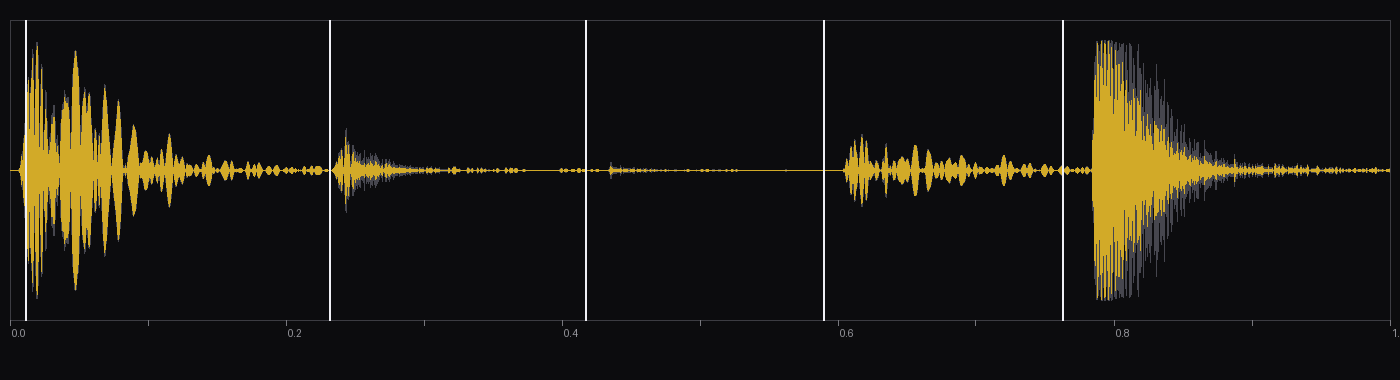
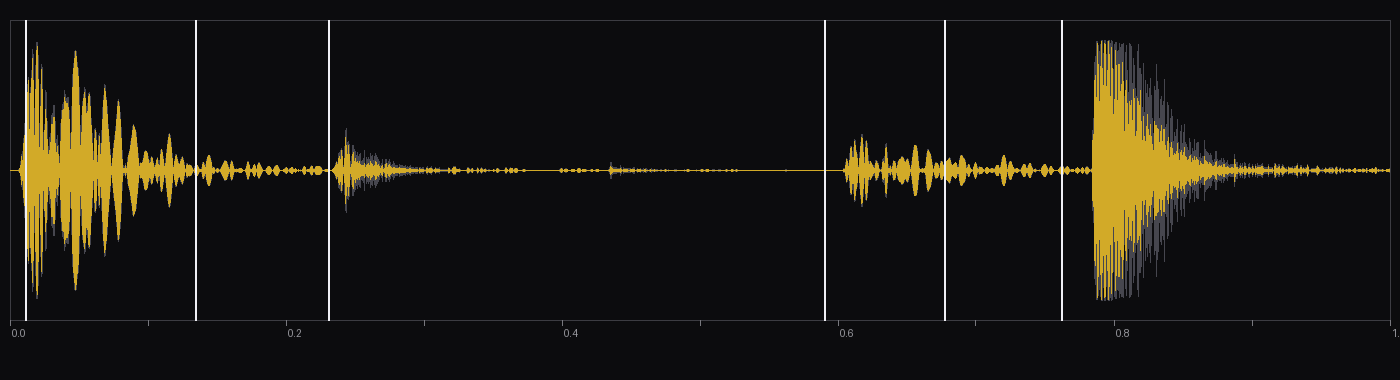
tools: cut on the attack step, not before it
The boundary was landing in the silence ahead of the burst. Two rules were
tried and measured against the take-off (the first 1 ms cell above three times
the local noise floor):

  first crossing of a level (25% of peak, or 2.5x noise)  median +2 ms, but
    it collapses when the window opens inside a decay;
  valley before the attack                               median +11.5 ms, far
    too early, because the valley can sit at the window edge.

The rule that holds is the steepest single step of the 1 ms envelope inside
+-12 ms of the novelty frame: median +1.5 ms from the take-off, 13 of 16
boundaries within 6 ms. The step is the attack, so the slice keeps the whole
transient and none of the silence before it.

Report images regenerated from this run.

diff --git a/tools/hpss/spectral_chop.py b/tools/hpss/spectral_chop.py
@@ -15,9 +15,10 @@ The whole algorithm is four steps:
   3. Peaks: a frame is an onset when its flux is the local maximum and exceeds
      `sensitivity` times the median flux of +-0.5 s around it. No absolute
      threshold, so it adapts to the material instead of to its loudest hit.
-  4. Position: the largest energy jump in a 1 ms envelope within +-30 ms of the
-     flux frame, minus a 2 ms pre-roll, so the boundary sits on the attack
-     instead of on the analysis frame (which is up to 11 ms late).
+  4. Position: inside the frame that carries the attack, the boundary goes on
+     the biggest single step up of the 1 ms envelope within +-12 ms. That step
+     is the attack itself, so the slice starts on the transient with neither
+     silence before it nor a clipped attack.
 
 Slices are what the firmware builds: slice i spans [pos[i], pos[i+1]) and the
 last runs to the end of the sample. At most 16 slices are made: the first 16
@@ -111,34 +112,27 @@ def pick_peaks(strength, rate, sensitivity, min_gap_ms=40.0):
 
 
 def snap_to_attack(x, rate, frame):
-    """Put the boundary at the steepest energy rise near the flux peak.
+    """Cut where the waveform jumps the most.
 
-    The ODF peak sits inside the first frame that contains the attack, so the
-    exact sample is found from a 1 ms envelope: the largest jump in a +-30 ms
-    window, minus a 2 ms pre-roll so the slice keeps the whole transient. A
-    plain "first sample above a threshold" rule was jumping back onto the
-    decaying tail of the previous hit.
+    The novelty peak tells which analysis frame carries the attack; inside a
+    +-12 ms window around it the 1 ms envelope is scanned and the boundary goes
+    on the biggest single step up. That step *is* the attack, so the slice
+    starts on the transient and keeps all of it - neither early (silence before
+    the hit) nor late (a clipped attack).
     """
     pos = frame * HOP
     a = max(0, pos - int(0.012 * rate))
     b = min(len(x), pos + int(0.012 * rate))
-    if b - a < 8:
-        return pos
     hop = max(1, int(0.001 * rate))
-    n = (b - a) // hop
-    if n < 4:
+    if b - a < 4 * hop:
         return pos
+    n = (b - a) // hop
     env = np.array([float(np.abs(x[a + i * hop:a + (i + 1) * hop]).max())
                     for i in range(n)], dtype=np.float32)
-    # rise over ~3 ms minus the preceding ~6 ms
-    k = max(1, int(0.003 * rate / hop))
-    m = max(1, int(0.006 * rate / hop))
-    best, best_i = -1.0, 0
-    for i in range(m, n):
-        rise = env[i:i + k].max() - env[max(0, i - m):i].min()
-        if rise > best:
-            best, best_i = rise, i
-    return max(0, a + best_i * hop - int(0.002 * rate))
+    if not float(env.max()) > 0:
+        return None
+    step = np.diff(env, prepend=env[:1])
+    return max(0, a + int(np.argmax(step)) * hop)
 
 
 def choose(frames, max_slices):
@@ -159,6 +153,8 @@ def onsets(x, rate, max_slices=16, sensitivity=2.5):
     positions = []
     for f in sorted(ranked):
         p = snap_to_attack(x, rate, f)
+        if p is None:
+            continue        # novelty peak without an attack of its own
         if positions and p - positions[-1] < int(0.040 * rate):
             continue        # snapping can pull two peaks together
         positions.append(p)
